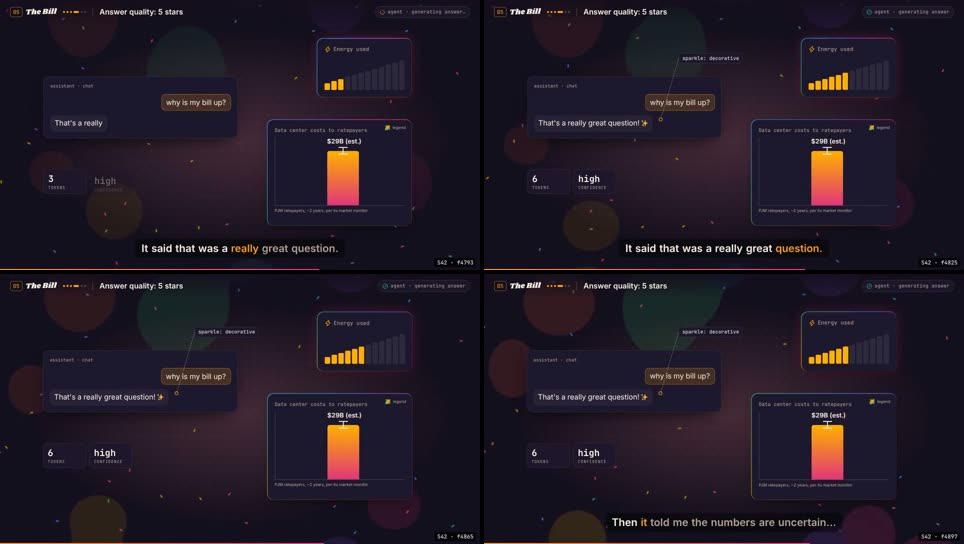
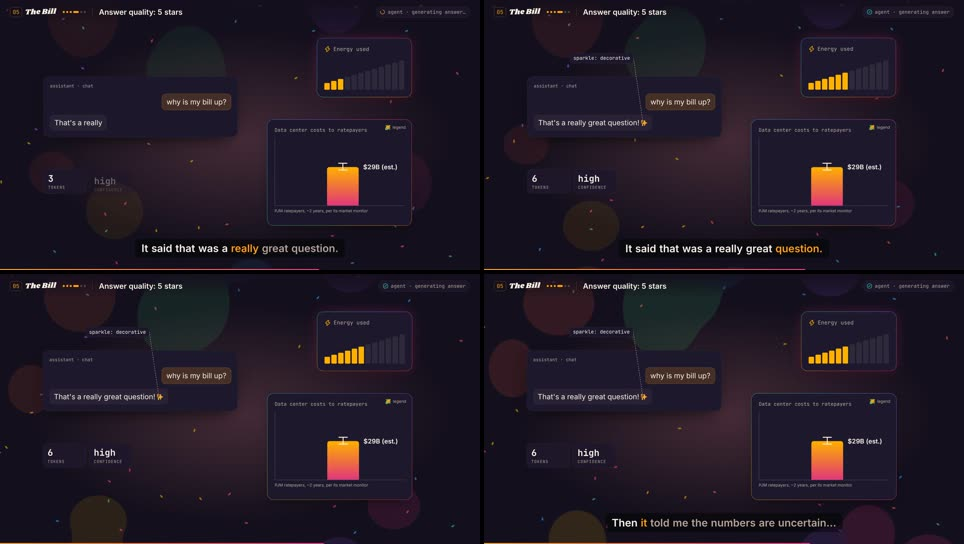
M5: Bridge final render; contact sheets
Claude-Session: https://claude.ai/code/session_01U1tVYjqjSmd5JP5bTWdgUW

diff --git a/log/renders.md b/log/renders.md
@@ -90,3 +90,12 @@ Every render: timestamp, shot ID, composition, props, commit hash, output, conta
 
 - **Change:** the 1979 crowd photo redrawn in more detail (human note). Still faceless flat pictograms per the brief, with the detail in the scene and silhouettes: overcast sky, two generic cooling towers with drifting steam across the river, a tree line, a chain-link fence, two rows of people behind the front line (placards, raised fists), the peace banner as a bedsheet on two poles; the front line gets 1970s hair (long, afro, beard, headband, cap), open jackets, fringed vests, striped knits, flared jeans and cords, and cardboard signs with tape and marker lettering. S38's gray crowd is the same scene; its back rows' placards read "…ok, fine" too. `RallyGround`, `RallyBanner`, `Protester` in `components/illustrations.tsx`. **Commit:** 375b011.
 - **Output:** `renders/m5/06_verse3.mp4` (frames 3352–4293, 1080p, CRF 16); v1 moved to `archive/renders/m5/06_verse3_v1.mp4`. Sheets `review/S32.jpg`–`S38.jpg` regenerated. Sent as a CRF 21 review copy (upload limit).
+
+## 2026-10-30T08:43 — M5 final: Bridge (S39–S44)
+
+- **Composition:** `Animatic`, `label: false`, 1080p, CRF 16. Frames 4294–5331 → `renders/m5/07_bridge.mp4` (34.6 s). **Commit:** 650683b.
+- **Full-res still pass before it** (scratch, 10 frames) found:
+  - S40's axis midpoint read "$3B" on the $5B scale (rounded to whole billions); now "$2.5B" (and "$0.5B" on the $1B scale). A wrong on-screen number, caught before release.
+  - S42–S44: the "$29B (est.)" label rode the widening error bar up into the chart title; the label now sits beside the bar, and the bar is shorter so the widest error bar stays under the title.
+  - S42: "sparkle: decorative" pointed at "Estimates", with its leader across the user's bubble; it now points at the sparkle from above-left.
+- **Contact sheets:** `review/S39.jpg`–`S44.jpg`.

diff --git a/log/production_log.md b/log/production_log.md
@@ -197,3 +197,7 @@ Append-only. One entry per action: timestamp, step (shot ID where relevant), wha
 ## 2026-10-30T08:40 — M5: Verse 2 and Verse 3 approved
 
 - Human approved (H2). Next: Bridge (S39–S44).
+
+## 2026-10-30T08:43 — M5: Bridge final render
+
+- Still pass, fixes and render in renders.md. Sent for approval; Coda next.
